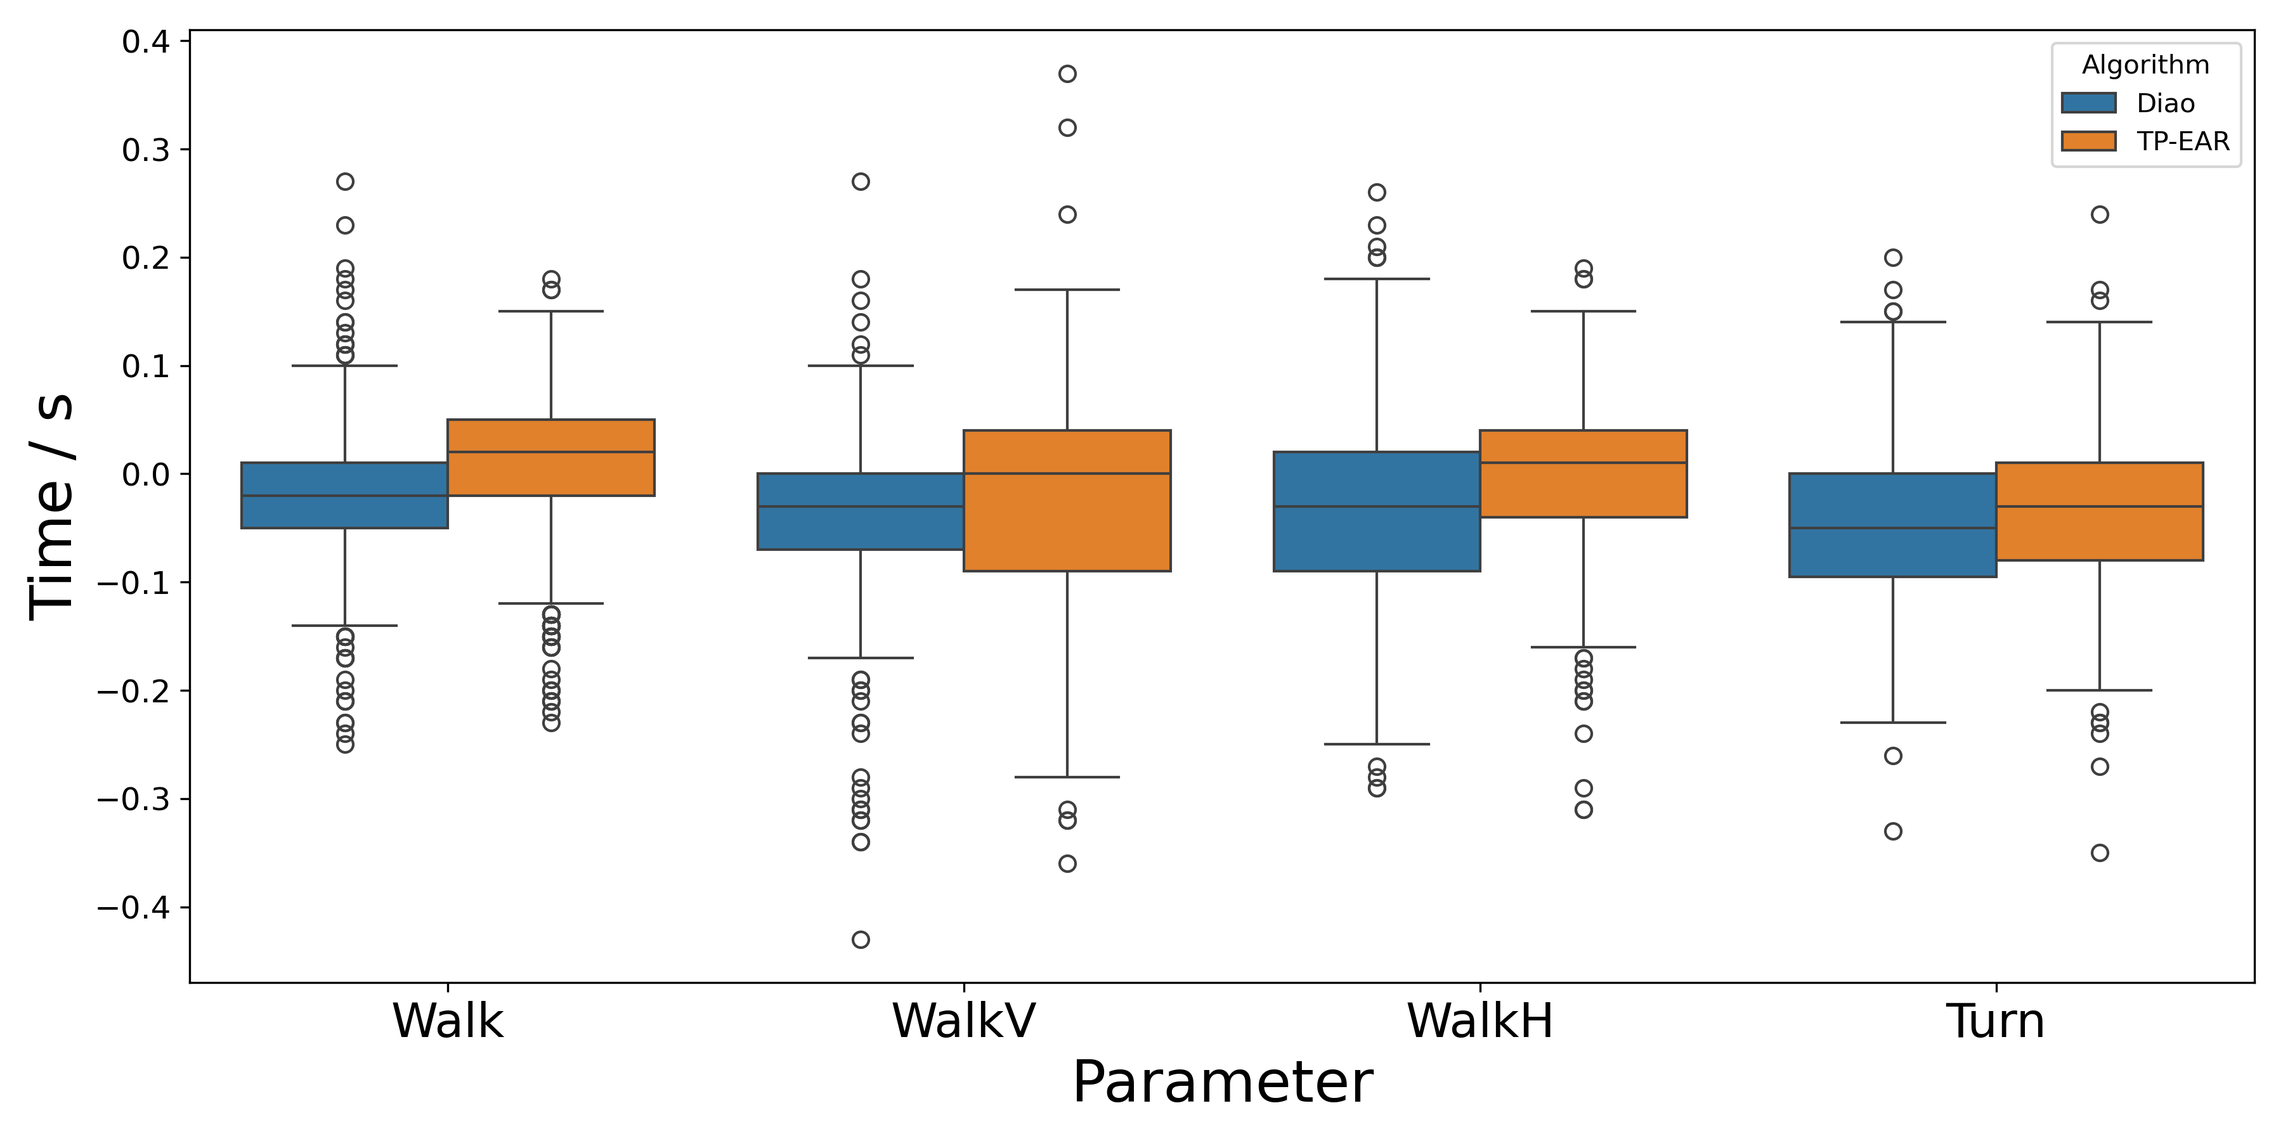
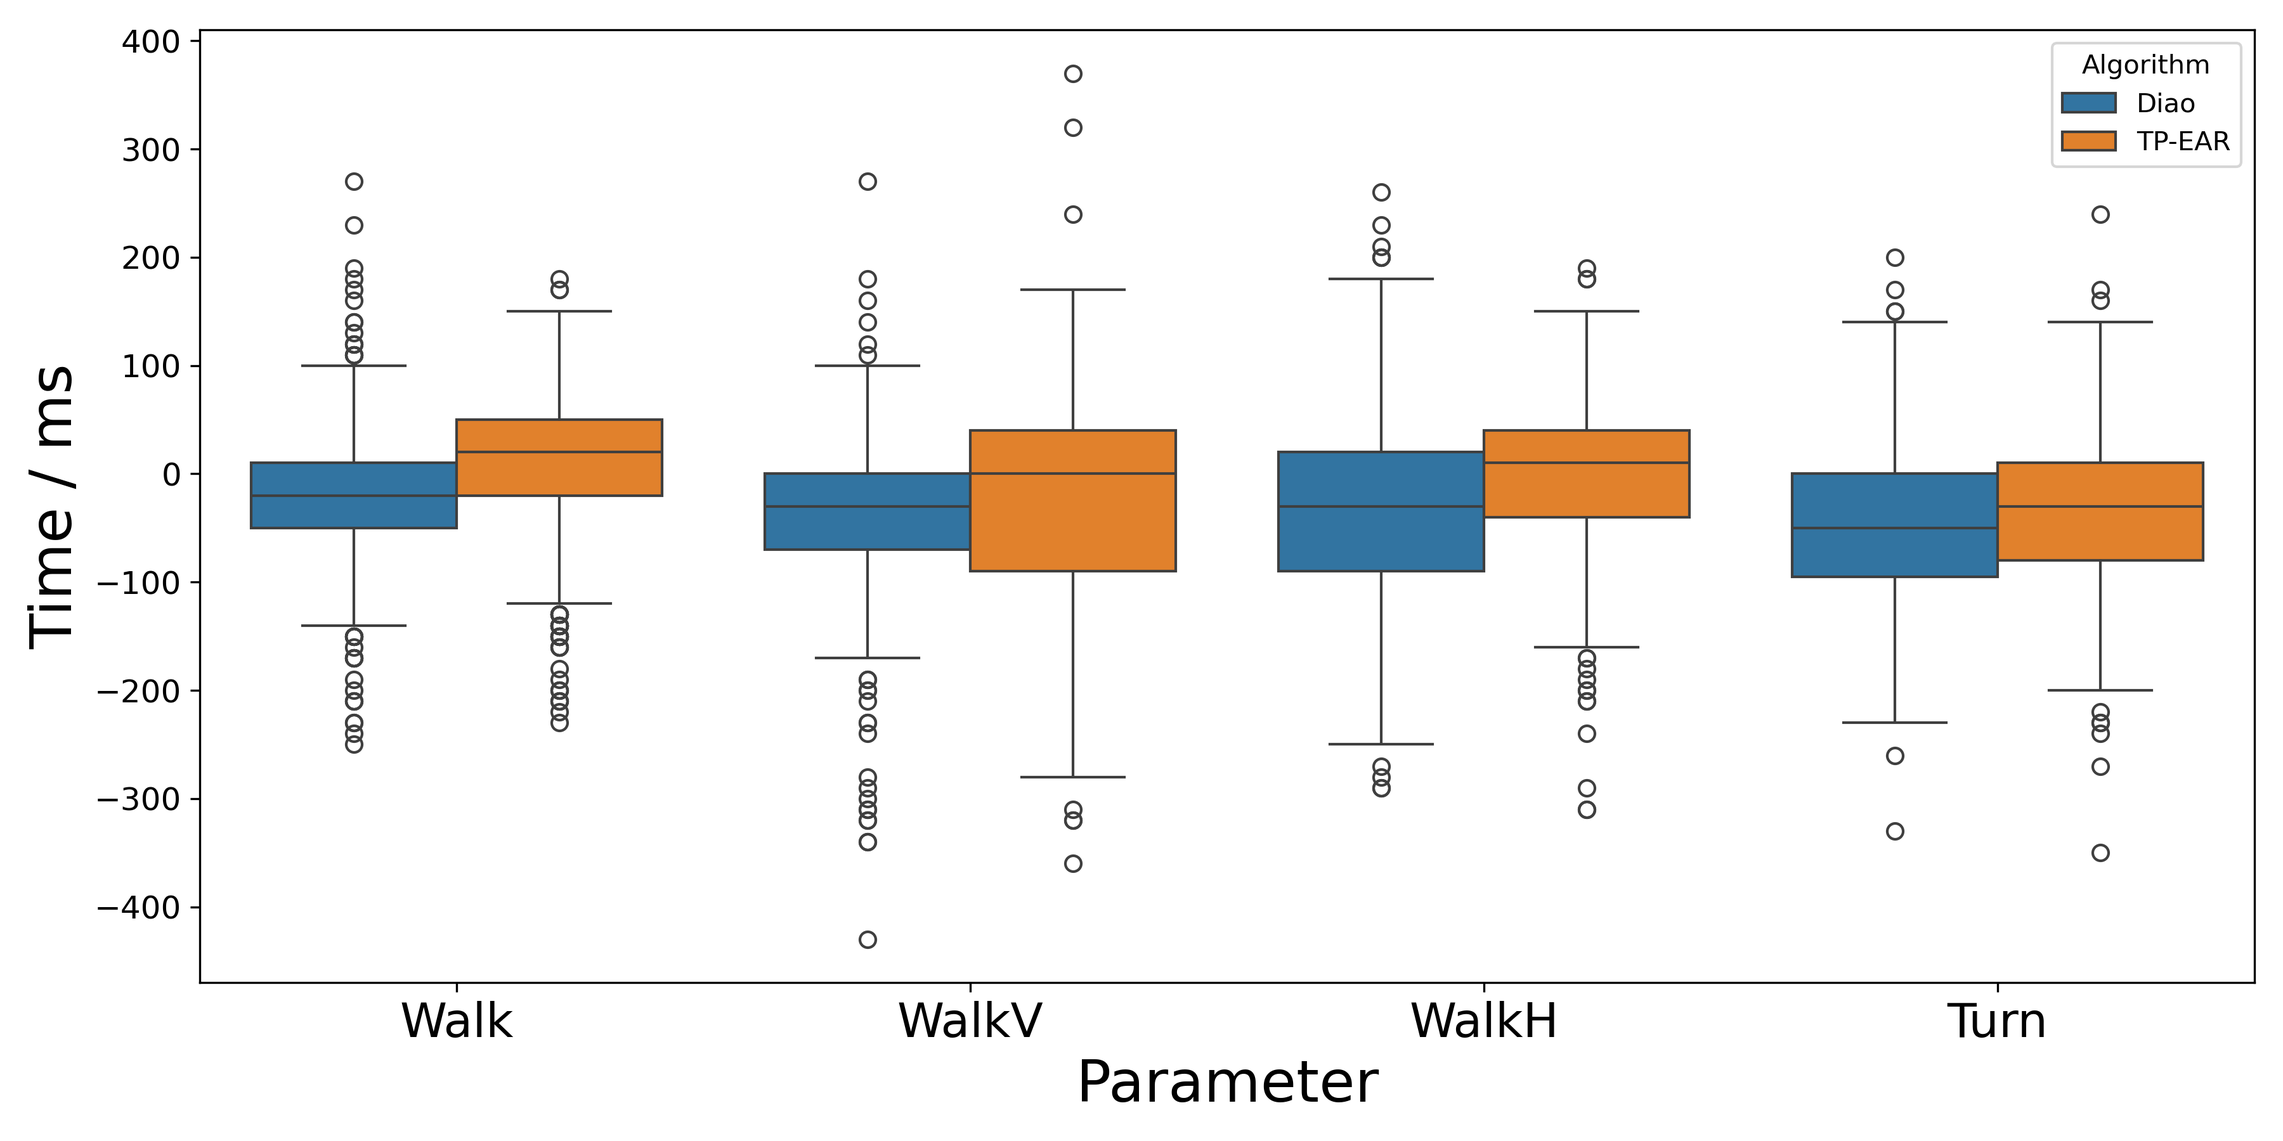
More detailed error analysis.

diff --git a/reports/compare_tsps_box_whisker.py b/reports/compare_tsps_box_whisker.py
@@ -58,7 +58,7 @@ def boxplot_compare_activities(tspsDF1, tspsDF2, plotName1, plotName2, dataSourc
             plt.show()
 
 
-def boxplot_compare_algorithm_tsps(plotName1, plotName2, dataSource, tsParam, save=False):
+def boxplot_compare_algorithm_tsps(plotName1, plotName2, dataSource, tsParam, isAbsolute, save=False):
     """
     Compare parameter for two activities on a single plot.
     Typical vs non-typical participants are plotted for each event.
@@ -90,17 +90,11 @@ def boxplot_compare_algorithm_tsps(plotName1, plotName2, dataSource, tsParam, sa
             tspsDF1 = pd.read_csv("../data/Diao/TSPs/{} Diao TSPs Summary.csv".format(activityTitle))
             tspsDF2 = pd.read_csv("../data/TP-EAR/TSPs/{} TP-EAR TSPs Summary.csv".format(activityTitle))
 
-            print("{} - {}".format(activityTitle, state))
-            print(tspsDF1[~(tspsDF1['Filename'].isin(tspsDF2['Filename']))])#.drop_duplicates(keep=False))
-
             # Split into typical and non-typical
             subjectNums = np.array([int(x[3:5]) for x in tspsDF1["Filename"].values])
             stateMask = np.isin(subjectNums, nonTypicalIDs) if state == "Non-Typical" else ~np.isin(subjectNums, nonTypicalIDs)
-            # print(stateMask)
             tspsDF1 = tspsDF1.loc[stateMask, :]
-            # print(tspsDF1.shape)
             tspsDF2 = tspsDF2.loc[stateMask, :]
-            # print(tspsDF2.shape)
 
             # Fill df with chosen TSP data for each algorithm
             for tspsDF, algorithmName in zip([tspsDF1, tspsDF2], [plotName1, plotName2]):
@@ -111,7 +105,7 @@ def boxplot_compare_algorithm_tsps(plotName1, plotName2, dataSource, tsParam, sa
                 for cycle in tspsDF.index.values:
                     eventArr = np.full((1, 4), fill_value=np.nan, dtype="object")
                     for i, eventName in enumerate([tsParam]):
-                        eventArr[i] = [activityName, algorithmName, eventName, tspsDF.at[cycle, eventStr.format(eventName)] / 100]
+                        eventArr[i] = [activityName, algorithmName, eventName, tspsDF.at[cycle, eventStr.format(eventName)] * 10]
                     # Add to overall df
                     boxDF = pd.concat((boxDF, pd.DataFrame(data=eventArr, columns=["Activity", "Algorithm", "EventType", "Value"])))
 
@@ -120,7 +114,10 @@ def boxplot_compare_algorithm_tsps(plotName1, plotName2, dataSource, tsParam, sa
         boxDF.Activity = pd.Categorical(boxDF.Activity, categories=["Walk", "WalkV", "WalkH", "Turn"], ordered=True)
         boxDF.Algorithm = pd.Categorical(boxDF.Algorithm, categories=["Diao", "TP-EAR"])
         # boxDF.EventType = pd.Categorical(boxDF.EventType, categories=["Stance"], ordered=True)
-        boxDF.Value = boxDF.Value.astype(float)
+        if isAbsolute:
+            boxDF.Value = boxDF.Value.abs().astype(float)
+        else:
+            boxDF.Value = boxDF.Value.astype(float)
         boxDF = boxDF.reset_index()
 
         # Plot the figure
@@ -130,58 +127,27 @@ def boxplot_compare_algorithm_tsps(plotName1, plotName2, dataSource, tsParam, sa
         plt.xticks(size=18)
         plt.yticks(size=12)
         plt.xlabel("Parameter", size=22)
-        plt.ylabel("Time / s", size=22)
+        plt.ylabel("Time / ms", size=22)
         plt.tight_layout()
         # plt.axhline(y=0, color='gray', linestyle='--', alpha=0.3)
 
         if save:
-            # plt.savefig("BoxWhisker/{}.png".format("-".join(str(title + "{} Participants".format(state)).split(" "))))
-            plt.savefig("Comparison Plots/{}Comparison{}.png".format(tsParam, state), dpi=300)
+            if isAbsolute:
+                plt.savefig("Comparison Plots/{}AbsoluteComparison{}.png".format(tsParam, state), dpi=300)
+            else:
+                plt.savefig("Comparison Plots/{}Comparison{}.png".format(tsParam, state), dpi=300)
             plt.close()
         else:
             plt.show()
 
 
 if __name__ == '__main__':
-    # Plot the walking activities first
-    # for activityName, plotName in zip(["Walk", "WalkShake", "WalkNod"], ["Walk", "WalkH", "WalkV"]):
-    #     tspsDF = format_tsps_df(activityName, isNew=True)
-    #
-    #     boxplot_all_tsps_by_state(tspsDF, plotName, "IMU", save=True, isNew=True)
-    #     boxplot_all_tsps_by_state(tspsDF, plotName, "GT", save=True, isNew=True)
-    #     boxplot_all_tsps_by_state(tspsDF, plotName, "Diffs", save=True, isNew=True)
-    #
-    #     boxplot_separate_tsps_by_state(tspsDF, plotName, "IMU", save=True, isNew=True)
-    #     boxplot_separate_tsps_by_state(tspsDF, plotName, "GT", save=True, isNew=True)
-    #     boxplot_separate_tsps_by_state(tspsDF, plotName, "Diffs", save=True, isNew=True)
-    #
-    #
-    # # Process TUG trials
-    # for activityName, plotName in zip(["TUG Turns", "TUG Non Turns"], ["TUG Turns", "TUG Non Turns"]):
-    #     # tspsDF = format_tsps_df(activityName)
-    #     tspsDF = format_tsps_df(activityName, isNew=True)
-    #
-    #     boxplot_all_tsps_by_state(tspsDF, plotName, "IMU", save=True, isNew=True)
-    #     boxplot_all_tsps_by_state(tspsDF, plotName, "GT", save=True, isNew=True)
-    #     boxplot_all_tsps_by_state(tspsDF, plotName, "Diffs", save=True, isNew=True)
-    #
-    #     boxplot_separate_tsps_by_state(tspsDF, plotName, "IMU", save=True, isNew=True)
-    #     boxplot_separate_tsps_by_state(tspsDF, plotName, "GT", save=True, isNew=True)
-    #     boxplot_separate_tsps_by_state(tspsDF, plotName, "Diffs", save=True, isNew=True)
-
     # Compare turning vs non-turning
     for source in ["Diffs"]:
-        # boxplot_compare_activities(format_tsps_df("TUG Turns"), format_tsps_df("TUG Non Turns"),
-        #                            "TUG Turns", "TUG Non Turns",
-        #                            source, save=True)
-
-        # boxplot_compare_activities(format_tsps_df("WalkShake", isNew=True), format_tsps_df("WalkShake", isNew=False),
-        #                            "New", "Diao",
-        #                            source, activityName="WalkH", save=True)
-
-        for param in ["Stride", "Stance"]:
-            boxplot_compare_algorithm_tsps("Diao", "TP-EAR",
-                                       source, tsParam=param, save=True)
+        for isAbsolute in [True, False]:
+            for param in ["Stride", "Stance"]:
+                boxplot_compare_algorithm_tsps("Diao", "TP-EAR",
+                                           source, tsParam=param, isAbsolute=isAbsolute, save=True)
 
 
 

diff --git a/reports/describe_tsps.py b/reports/describe_tsps.py
@@ -1,0 +1,96 @@
+import pandas as pd
+import numpy as np
+from utils.participant_info_utils import get_non_typical_participant_nums
+
+
+def describe_tsps(plotName1, plotName2, dataSource, tsParam):
+    """
+    Compare parameter for two activities on a single plot.
+    Typical vs non-typical participants are plotted for each event.
+    :param tspsDF:
+    :param dataSource:
+    :param title:
+    :param save:
+    :return:
+    """
+    if dataSource == "IMU":
+        eventStr = "IMU{}Time"
+    elif dataSource == "GT":
+        eventStr = "GT{}Time"
+    elif dataSource == "Diffs":
+        eventStr = "{}Diffs"
+    else:
+        raise ("Unrecognized data source: {}".format(dataSource))
+
+    nonTypicalIDs = get_non_typical_participant_nums()  # used to split typical/non-typical
+
+    for state in ["Typical", "Non-Typical"]:
+        # Reformat the df to fit boxplot format
+        boxDF = pd.DataFrame(columns=["Activity", "EventType", "Value"])
+        for activityTitle, activityName in zip(["Walk", "WalkNod", "WalkShake", "TUG Turns"], ["Walk", "WalkV", "WalkH", "Turn"]):
+            tspsDF1 = pd.read_csv("../data/Diao/TSPs/{} Diao TSPs Summary.csv".format(activityTitle))
+            tspsDF2 = pd.read_csv("../data/TP-EAR/TSPs/{} TP-EAR TSPs Summary.csv".format(activityTitle))
+
+            # Split into typical and non-typical
+            subjectNums = np.array([int(x[3:5]) for x in tspsDF1["Filename"].values])
+            stateMask = np.isin(subjectNums, nonTypicalIDs) if state == "Non-Typical" else ~np.isin(subjectNums, nonTypicalIDs)
+            tspsDF1 = tspsDF1.loc[stateMask, :]
+            tspsDF2 = tspsDF2.loc[stateMask, :]
+
+            # Fill df with chosen TSP data for each algorithm
+            for tspsDF, algorithmName in zip([tspsDF1, tspsDF2], [plotName1, plotName2]):
+                # Calculate difference between IMU and GT
+                tspsDF["{}Diffs".format(tsParam)] = (
+                            tspsDF["IMU{}Time".format(tsParam)] - tspsDF["GT{}Time".format(tsParam)])
+                # Compile all the diffs into a df to be plotted
+                for cycle in tspsDF.index.values:
+                    eventArr = np.full((1, 4), fill_value=np.nan, dtype="object")
+                    for i, eventName in enumerate([tsParam]):
+                        eventArr[i] = [activityName, algorithmName, eventName, tspsDF.at[cycle, eventStr.format(eventName)] * 10]
+                    # Add to overall df
+                    boxDF = pd.concat((boxDF, pd.DataFrame(data=eventArr, columns=["Activity", "Algorithm", "EventType", "Value"])))
+
+        # Ensure the types are categorical and indexed correctly then plot
+        boxDF = boxDF.astype(dtype={"Activity": "category", "Algorithm": "category", "EventType": "category", "Value": "float"})
+        boxDF.Activity = pd.Categorical(boxDF.Activity, categories=["Walk", "WalkV", "WalkH", "Turn"], ordered=True)
+        boxDF.Algorithm = pd.Categorical(boxDF.Algorithm, categories=["Diao", "TP-EAR"])
+
+        boxDF.Value = boxDF.Value.astype(float)
+        boxDF["AbsValue"] = boxDF.Value.abs().astype(float)
+        boxDF = boxDF.reset_index()
+
+        for isSigned in [True, False]:
+            describeArr = np.zeros((1, 10))
+            for activity in ["Walk", "WalkV", "WalkH", "Turn"]:
+                for algorithm in ["Diao", "TP-EAR"]:
+                    arr = np.zeros(10, dtype="object")
+                    arr[0:2] = [activity, algorithm]
+                    if isSigned:
+                        arr[2:] = boxDF[(boxDF.Activity==activity) & (boxDF.Algorithm==algorithm)].describe().Value.to_numpy()
+                    else:
+                        arr[2:] = boxDF[(boxDF.Activity == activity) & (boxDF.Algorithm == algorithm)].describe().AbsValue.to_numpy()
+                    describeArr = np.vstack((describeArr, arr))
+
+            describeDF = pd.DataFrame(describeArr[1:],
+                                      columns=["Activity", "Algorithm", "Count", "Mean", "Std", "Min", "25%", "50%", "75%",
+                                               "Max"])
+
+            if isSigned:
+                describeDF.to_csv(
+                    "../reports/TSPs/Difference vs Ground Truth Description/{}{}Signed.csv".format(state, tsParam),
+                    index=False)
+            else:
+                describeDF.to_csv("../reports/TSPs/Difference vs Ground Truth Description/{}{}Unsigned.csv".format(state, tsParam), index=False)
+
+
+if __name__ == '__main__':
+    # Compare turning vs non-turning
+    for source in ["Diffs"]:
+        for isAbsolute in [True, False]:
+            for param in ["Stride", "Stance", "Swing"]:
+                describe_tsps("Diao", "TP-EAR", source, tsParam=param)
+
+
+
+
+

diff --git a/reports/calculate_tsp_metrics.py b/reports/calculate_tsp_metrics.py
@@ -45,22 +45,32 @@ def calculate_tsp_metrics_by_state(typicalDF, nonTypicalDF, dataSource):
     else:
         raise ("Unrecognized data source: {}".format(dataSource))
 
-    typicalArr = np.zeros((3, 2), dtype="object")
+    typicalArr = np.zeros(3, dtype="object")
     nonTypicalArr = np.zeros_like(typicalArr)
 
     for i, tspName in enumerate(["Stride", "Stance", "Swing"]):
-        for j, algorithm in enumerate(["Diao", "TP-EAR"]):
-            # Calculate mean, std and range
-            typicalMeanVal = typicalDF.loc[:, eventStr.format(tspName)].abs().mean() * 10
-            typicalStdVal = typicalDF.loc[:, eventStr.format(tspName)].abs().std() * 10
-            nonTypicalMeanVal = nonTypicalDF.loc[:, eventStr.format(tspName)].abs().mean() * 10
-            nonTypicalStdVal = nonTypicalDF.loc[:, eventStr.format(tspName)].abs().std() * 10
+        # Calculate mean, std and range
+        typicalMeanVal = typicalDF.loc[:, eventStr.format(tspName)].abs().mean() * 10
+        typicalStdVal = typicalDF.loc[:, eventStr.format(tspName)].abs().std() * 10
+        nonTypicalMeanVal = nonTypicalDF.loc[:, eventStr.format(tspName)].abs().mean() * 10
+        nonTypicalStdVal = nonTypicalDF.loc[:, eventStr.format(tspName)].abs().std() * 10
 
-            # print("--- {} Time {} Typical ---\nMean: {:2.1f}±{:2.1f}".format(tspName, algorithm, typicalMeanVal, typicalStdVal))
-            # print("--- {} Time {} Non Typical ---\nMean: {:2.1f}±{:2.1f}".format(tspName, algorithm, nonTypicalMeanVal,
-            #                                                                  nonTypicalStdVal))
-            typicalArr[i, j] = "{:2.1f}±{:2.1f}".format(typicalMeanVal, typicalStdVal)
-            nonTypicalArr[i, j] = "{:2.1f}±{:2.1f}".format(nonTypicalMeanVal, nonTypicalStdVal)
+        plt.plot(typicalDF.loc[:, eventStr.format(tspName)].abs() * 10)
+        plt.axhline(typicalMeanVal, color="r")
+        plt.title("abs distribution for Typical {} {}".format(tspName, dataSource))
+        plt.show()
+
+        sns.boxplot(x=1, y=typicalDF.loc[:, eventStr.format(tspName)].abs() * 10)
+        plt.show()
+
+        # check the csv
+        typicalDF.loc[:, eventStr.format(tspName)].abs().mul(10).to_csv("abs distribution for Typical {} {}.csv".format(tspName, dataSource))
+
+        # print("--- {} Time {} Typical ---\nMean: {:2.1f}±{:2.1f}".format(tspName, algorithm, typicalMeanVal, typicalStdVal))
+        # print("--- {} Time {} Non Typical ---\nMean: {:2.1f}±{:2.1f}".format(tspName, algorithm, nonTypicalMeanVal,
+        #                                                                  nonTypicalStdVal))
+        typicalArr[i] = "{:2.1f}±{:2.1f}".format(typicalMeanVal, typicalStdVal)
+        nonTypicalArr[i] = "{:2.1f}±{:2.1f}".format(nonTypicalMeanVal, nonTypicalStdVal)
     return typicalArr, nonTypicalArr
 
 
@@ -78,8 +88,7 @@ if __name__ == "__main__":
             print(activityName + "\n------------")
             typicalDF, nonTypicalDF = format_tsps_df(activityName, algorithm)
             print(typicalDF)
-            typicalTable[[(activityName, algorithm), (activityName, algorithm)]], nonTypicalTable[[(activityName, algorithm), (activityName, algorithm)]] = calculate_tsp_metrics_by_state(
-                typicalDF, nonTypicalDF, "Diffs")
+            typicalTable[(activityName, algorithm)], nonTypicalTable[(activityName, algorithm)] = calculate_tsp_metrics_by_state(typicalDF, nonTypicalDF, "Diffs")
 
     typicalTable.set_index(pd.Index(data=["Stride (ms)", "Stance (ms)", "Swing (ms)"]), inplace=True)
     nonTypicalTable.set_index(pd.Index(data=["Stride (ms)", "Stance (ms)", "Swing (ms)"]), inplace=True)

diff --git a/reports/TSPs/Difference vs Ground Truth Description/create_signed_unsigned_table.py b/reports/TSPs/Difference vs Ground Truth Description/create_signed_unsigned_table.py
@@ -1,0 +1,76 @@
+import os
+import pandas as pd
+
+
+def convert_to_latex(table):
+    for row in table.index[:3]:
+        if "Stride" in row:
+            rowStr = "\multirow{ 3}{*}{AE} & " + str(row) + " & " + " & ".join(table.loc[row, :]) + "\\\\"
+        else:
+            rowStr = "& " + str(row) + " & " + " & ".join(table.loc[row, :]) + "\\\\"
+        rowStr = rowStr.replace("±", "\pm")
+        rowStr = rowStr.replace("US", "")
+        print(rowStr)
+    print("\midrule")
+    for row in table.index[3:]:
+        if "Stride" in row:
+            rowStr = "\multirow{ 3}{*}{SE} & " + str(row) + " & " + " & ".join(table.loc[row, :]) + "\\\\"
+        else:
+            rowStr = "& " + str(row) + " & " + " & ".join(table.loc[row, :]) + "\\\\"
+        rowStr = rowStr.replace("±", "\pm")
+        rowStr = rowStr.replace("S ", " ")
+        print(rowStr)
+    print("\\bottomrule")
+
+    # return table
+
+
+columns = pd.MultiIndex.from_tuples([('Walk', 'Diao'), ('Walk', 'TP-EAR'),
+                                         ('WalkNod', 'Diao'), ('WalkNod', 'TP-EAR'),
+                                         ('WalkShake', 'Diao'), ('WalkShake', 'TP-EAR'),
+                                         ('TUG Turns', 'Diao'), ('TUG Turns', 'TP-EAR')])
+
+typicalTable = pd.DataFrame(columns=columns,
+                            index=pd.Index(["StrideUS", "StanceUS", "SwingUS",
+                                            "StrideS", "StanceS", "SwingS"]))
+nonTypicalTable = pd.DataFrame(columns=columns,
+                            index=pd.Index(["StrideUS", "StanceUS", "SwingUS",
+                                            "StrideS", "StanceS", "SwingS"]))
+
+
+for filename in os.listdir(os.getcwd()):
+    if filename.endswith('.csv'):
+        df = pd.read_csv(filename, usecols=["Activity", "Algorithm", "Mean", "Std"])
+        # Create formatted vals for df
+        valuesList = []
+        for row in range(len(df)):
+            valuesList.append("${:2.0f}±{:2.0f}$".format(df.loc[row, "Mean"], df.loc[row, "Std"]))
+        for activity in ["Stride", "Stance", "Swing"]:
+            if activity in filename:
+                if "Non-Typical" in filename:
+                    if "Signed" in filename:
+                        nonTypicalTable.loc[activity+"S", :] = valuesList#df.Mean.to_numpy()
+                    else:
+                        nonTypicalTable.loc[activity+"US", :] = valuesList#df.Mean.to_numpy()
+                else:
+                    if "Signed" in filename:
+                        typicalTable.loc[activity+"S", :] = valuesList#df.Mean.to_numpy()
+                    else:
+                        typicalTable.loc[activity+"US", :] = valuesList#df.Mean.to_numpy()
+
+# print(typicalTable)
+# for row in typicalTable.index:
+#     print(" & ".join(typicalTable.loc[row, :]))
+# print(nonTypicalTable)
+
+print("--- Typical ---\n")
+convert_to_latex(typicalTable)
+print("\n--- Non Typical ---\n")
+convert_to_latex(nonTypicalTable)
+
+# for activityName in ["Walk", "WalkShake", "WalkNod", "TUG Turns", "TUG Non Turns"]:
+#     for algorithm in ["Diao", "TP-EAR"]:
+#         print(activityName + "\n------------")
+#         typicalDF, nonTypicalDF = format_tsps_df(activityName, algorithm)
+#         print(typicalDF)
+#         typicalTable[(activityName, algorithm)], nonTypicalTable[(activityName, algorithm)] = calculate_tsp_metrics_by_state(typicalDF, nonTypicalDF, "Diffs")
